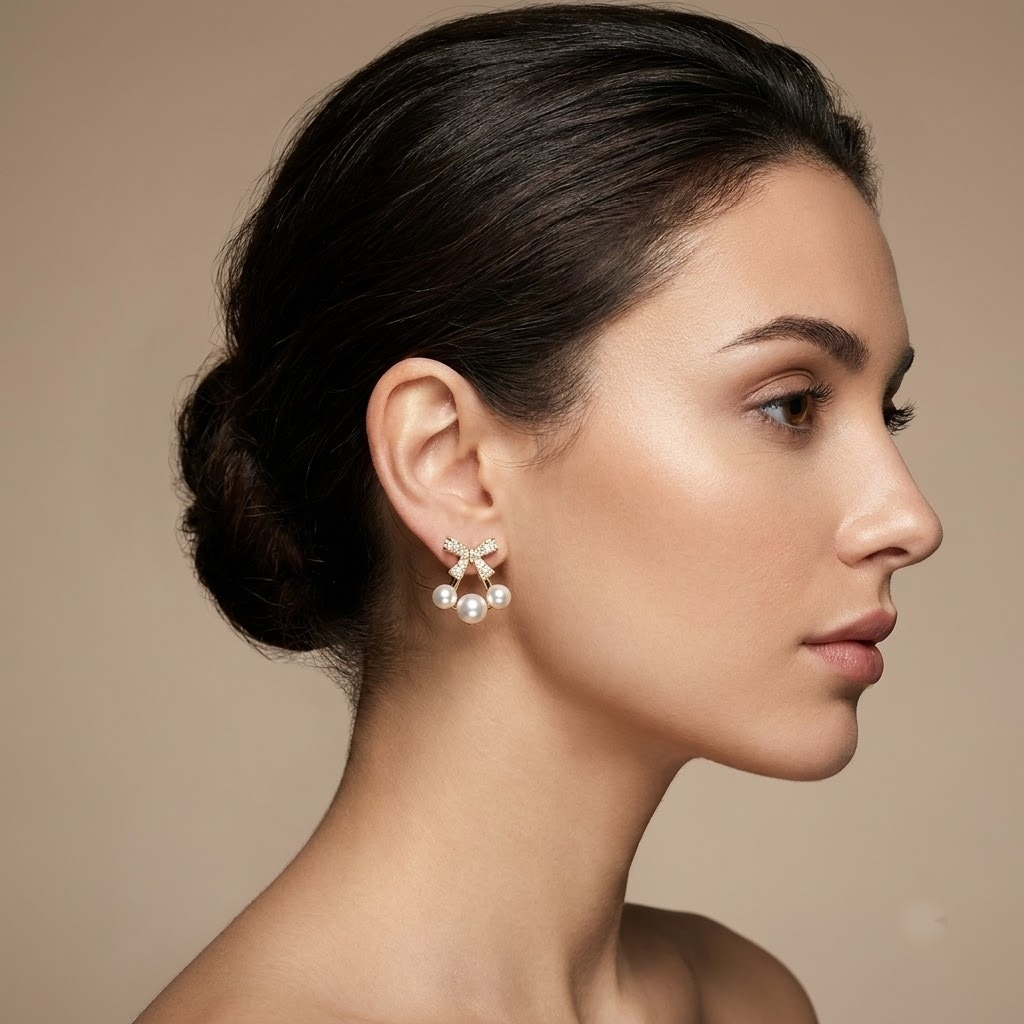
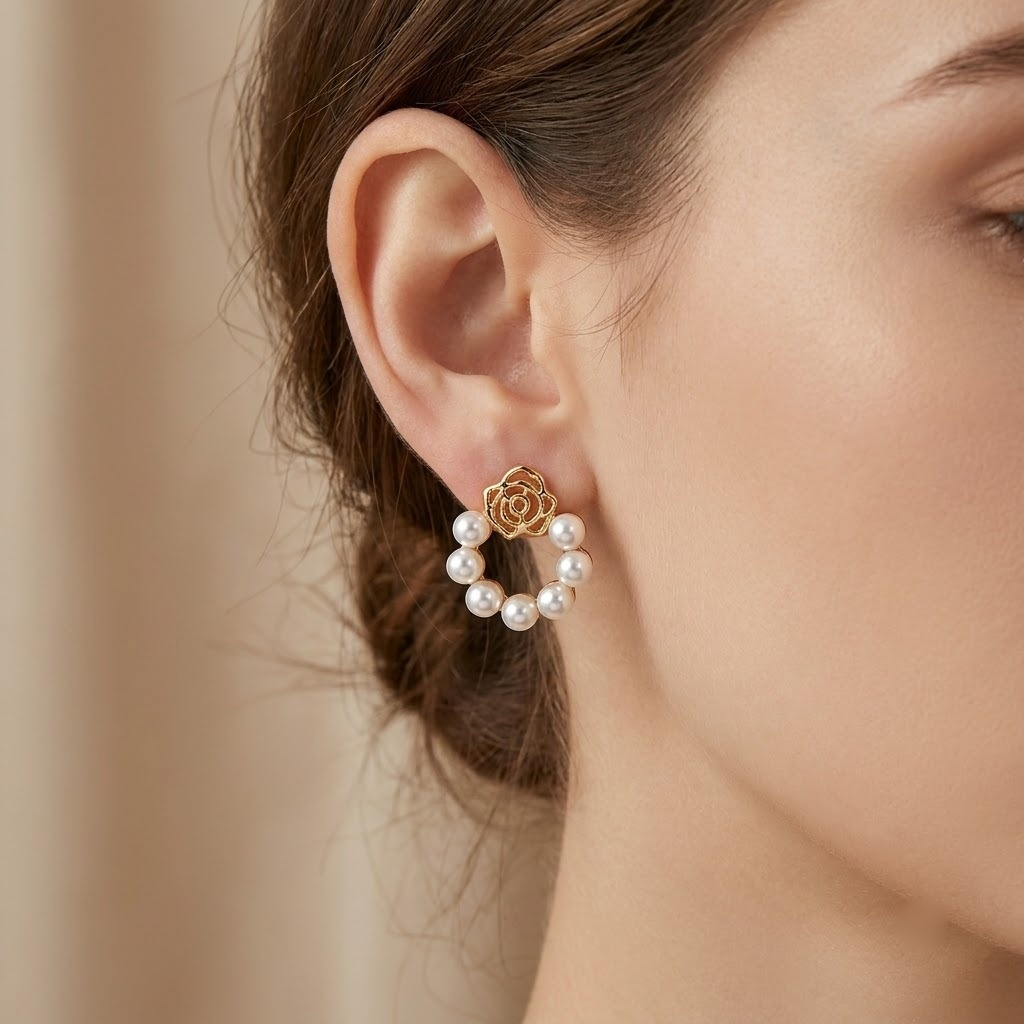
feat: add JC-KE-53 Golden Camellia Rose Pearl Wreath Stud Earrings live globally

diff --git a/src/data/productsData.js b/src/data/productsData.js
@@ -83,7 +83,7 @@ const JEWELLERY_DESCRIPTIONS = {
   'JC-KE-80':
     'Celebrate perennial spring elegance with the JC-KE-80 Sakura Blossom Halo Wreath Earrings. Sculpted in certified 925 hallmarked sterling silver plated in rich 18K gold vermeil, each earring features a charming five-petal cherry blossom flower enameled in shimmering blush-pink with a delicate sparkling crystal pistil center. The bloom crowns a full halo circular ring hand-set with glittering round-cut AAA cubic zirconia stones. Hypoallergenic, featherlight, and infused with romantic charm.',
   'JC-KE-53':
-    'Exude whimsical romance and timeless luxury with the JC-KE-53 Pavé Ribbon Bow Triple Pearl Drop Earrings. Masterfully sculpted in certified 925 hallmarked sterling silver with a rich 18K gold vermeil finish, each earring features an exquisite couture ribbon bow motif handset with brilliant micro-pavé cubic zirconia crystals. Suspended beneath are three luminous freshwater-luster pearls forming an organic cherry-cluster drop that sways with graceful luminescence. Featherlight, hypoallergenic, and fitted with secure comfort-fit stud posts for effortless day-to-evening allure.',
+    'Embrace vintage Parisian romance and royal grace with the JC-KE-53 Golden Camellia Rose Pearl Wreath Stud Earrings. Sculpted in certified 925 hallmarked sterling silver layered in luminous 18K gold vermeil, each earring highlights an intricate openwork filigree camellia rose stud that crowns a circular garland of seven hand-matched, high-luster freshwater pearls. The delicate scalloped gold prongs cradle each iridescent pearl with timeless symmetry, creating a radiant halo of light on the lobe. Hypoallergenic, featherlight, and equipped with ergonomic comfort-fit stud posts for effortless day-to-evening sophistication.',
   'JC-KE-82':
     'Command bold two-tone sophistication with the JC-KE-82 Gold Dome & Textured Silver Fan Drop Earrings. Sculpted in certified 925 hallmarked sterling silver, each earring pairs a luminous high-polish 18K gold vermeil dome stud with a striking hand-etched radiating silver fan drop reminiscent of a cascading seashell. The mesmerizing contrasting metals create a modern architectural statement that transitions effortlessly from daywear to black-tie elegance. Hypoallergenic and featherlight with secure comfort-fit stud posts.',
   'JC-KE-77':
@@ -866,9 +866,9 @@ export const MOCK_PRODUCTS = RAW_PRODUCTS.map((p) => {
     description,
     features: isJcKe53
       ? [
-          'SKU: JC-KE-53 — Dimensional couture ribbon bow handset with brilliant micro-pavé cubic zirconia crystals',
-          'Three graduated high-luster freshwater pearls forming an organic cherry-cluster drop',
-          'Cast in certified 925 hallmarked Sterling Silver with a warm 18K Gold Vermeil finish',
+          'SKU: JC-KE-53 — Dimensional openwork filigree camellia rose stud with full circular pearl wreath halo',
+          'Seven hand-selected round freshwater pearls featuring deep orient and shimmering iridescent luster',
+          'Cast in certified 925 hallmarked Sterling Silver with a warm, lasting 18K Gold Vermeil finish',
           '100% Hypoallergenic — Nickel-Free and Lead-Free for sensitive ears',
           'Ergonomic comfort-fit post backings for secure, all-day featherlight wear',
           'Arrives in Smiths Signature Velvet Presentation Box with Authenticity Certificate',
@@ -1060,7 +1060,7 @@ export const MOCK_PRODUCTS = RAW_PRODUCTS.map((p) => {
           'Includes Velvet Presentation Box & Authenticity Certificate',
         ],
     dimensions: isJcKe53
-      ? '22mm x 15mm / Ultra-Lightweight (3.6g per pair)'
+      ? '20mm x 20mm Halo / Ultra-Lightweight (3.4g per pair)'
       : isJcKe80
       ? '20mm x 16mm / Ultra-Lightweight (3.4g per pair)'
       : isJcKe63
@@ -1103,7 +1103,7 @@ export const MOCK_PRODUCTS = RAW_PRODUCTS.map((p) => {
       ? '90cm x 90cm'
       : 'Adjustable Length / Standard Comfort Fit',
     material: isJcKe53
-      ? '18K Gold Vermeil 925 Sterling Silver, Triple Pearls & AAA CZ'
+      ? '18K Gold Vermeil 925 Sterling Silver & Seven Freshwater Pearls'
       : isJcKe80
       ? '18K Gold Plated 925 Sterling Silver, Pink Shimmer Enamel & AAA CZ'
       : isJcKe63
@@ -1134,7 +1134,7 @@ export const MOCK_PRODUCTS = RAW_PRODUCTS.map((p) => {
       ? 'Pure Silk / Cashmere Blend'
       : '925 Sterling Silver',
     finish: isJcKe53
-      ? 'Warm 18K Gold Vermeil, High-Luster Pearl White & Diamond Pavé'
+      ? 'Warm 18K Gold Vermeil & High-Luster Freshwater Pearl White'
       : isJcKe80
       ? 'Warm 18K Gold, Shimmering Blush Pink Enamel & Diamond Pavé'
       : isJcKe63
